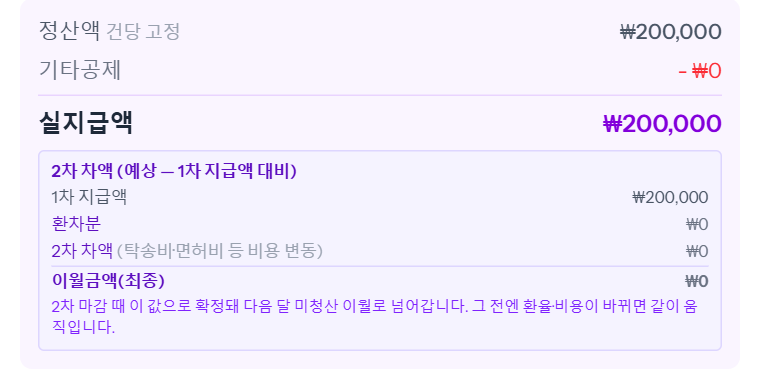
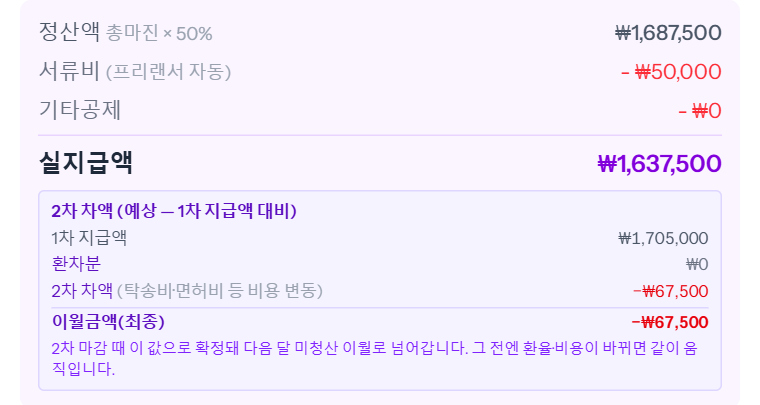
feat(guides): 「2차 정산」 씬을 명세서 일괄 흐름으로 다시 찍음
jin «일괄로 명세서 업로드하는 내용은 왜 없어?» — 실무 주 경로가 명세서 기입 → 이 달 2차 일괄 마감인데
첫 판은 차량 창 한 대 입력만 찍었다(재무 화면에 버튼이 없었음 → 27c3076a 로 재무 이상에 개방).
재무 계정·예시 00가1121·00가1122(프리랜서 50%): 비용 대기 → 명세서 기입(붙여넣기) → 2차 가능·이월 −67,500/−54,000
→ 일괄 마감 창 → 최종 마무리. 한 대씩 고치는 길은 「참고」로 뒤에.

diff --git a/resources/guides/secondary-settlement/index.html b/resources/guides/secondary-settlement/index.html
@@ -1,6 +1,6 @@
 <p style="margin:0 0 14px;color:#4b5563;line-height:1.65">
-    1차 정산을 지급한 뒤, 한 달쯤 지나 명세서로 청구된 실제 비용(탁송비·면허비 등)을 넣고 정산을 마무리하는 단계입니다. 재무가 합니다. 비용을 넣으면 정산 목록의 「2차 정산」 칸이 <strong>「비용 대기」 → 「2차 가능」</strong>으로 바뀌고, [2차 완료]를 누르면 <strong>「최종 마무리」</strong>가 되며 회계 칸이 잠깁니다.
-    <br>2026-11-14 로컬 화면에서 「재무」 계정으로 앞 씬의 예시 차량 <strong>00가1113</strong>(거래완료 · 정산 지급완료 · 사내직원 건당 200,000)을 실제로 저장하며 찍었습니다. 탁송비 금액은 가이드용 예시입니다.
+    1차 정산을 지급한 뒤, 업체 명세서로 청구된 실제 비용(탁송비 등)을 넣고 정산을 마무리하는 단계입니다. 재무가 합니다. 보통은 <strong>명세서를 「명세서 기입」으로 한 번에 올리고 → 「이 달 2차 일괄 마감」</strong>으로 끝냅니다. 비용이 들어간 정산은 「2차 정산」 칸이 <strong>「비용 대기」 → 「2차 가능」</strong>이 되고, 마감하면 <strong>「최종 마무리」</strong>가 되며 회계 칸이 잠깁니다.
+    <br>2026-11-14 로컬 화면에서 「재무」 계정으로 예시 차량 <strong>00가1121 · 00가1122</strong>(판매완료 · 정산 지급완료 · 프리랜서 50%)를 실제로 저장하며 찍었습니다. 명세서 금액은 가이드용 예시입니다.
 </p>
 
 <h2 class="gd-sec">① 지급이 끝난 정산 — 「비용 대기」</h2>
@@ -8,52 +8,68 @@
 <div class="gd-step">
     <div class="gd-n">1단계</div>
     <h3>「정산 처리」에서 2차 정산 칸을 봅니다</h3>
-    <p>지급완료된 정산은 맨 오른쪽 「2차 정산」 칸에 노란 「비용 대기」가 붙습니다. 아직 지급 뒤에 들어온 비용이 없다는 뜻입니다.</p>
-    <img src="01.png" alt="정산 처리 목록 — 00가1113 지급완료, 2차 정산 비용 대기, 위에 이 달 2차 일괄 마감 (1) 버튼">
+    <p>지급완료된 정산은 맨 오른쪽 「2차 정산」 칸에 노란 「비용 대기」가 붙습니다. 지급 뒤에 들어온 비용이 아직 없다는 뜻입니다.</p>
+    <img src="01.png" alt="정산 처리 목록 — 00가1121·00가1122 지급완료, 2차 정산 비용 대기">
 </div>
 
-<h2 class="gd-sec">② 명세서 비용을 차에 넣습니다</h2>
+<h2 class="gd-sec">② 명세서 비용을 한 번에 넣습니다 — 「명세서 기입」</h2>
 
 <div class="gd-step">
     <div class="gd-n">2단계</div>
-    <h3>차량 관리에서 그 차를 열고 「매입」 탭 → 「비용 10개」</h3>
-    <p>지급이 끝난 차라도 2차 대기 동안은 비용 칸 위에 노란 띠 「⏳ 2차 정산 대기 — 실측 정정 가능」이 뜨고 비용을 고칠 수 있습니다. 명세서에 적힌 금액을 해당 칸에 넣습니다(예시는 탁송비 150,000).</p>
-    <img src="02.png" alt="매입 탭 비용 10개 — 2차 정산 대기 실측 정정 가능 띠, 말소비 24,000, 탁송비 150,000">
-    <p>[수정 저장]을 누르면 「차량 정보가 수정됐습니다.」가 뜹니다. 매입가·판매가·환율은 재무 계정으로 바꿀 수 없고, 바꿔도 저장할 때 원래 값으로 돌아갑니다 — 비용 10개만 고칩니다.</p>
+    <h3>차량 관리 목록 아래의 [명세서 기입]을 누릅니다</h3>
+    <img src="02.png" alt="차량 관리 목록 아래 — 데이터 내려받기, 명세서 기입 버튼">
 </div>
 
 <div class="gd-step">
     <div class="gd-n">3단계</div>
-    <h3>정산 처리로 돌아오면 「2차 가능」</h3>
-    <p>지급 뒤에 비용이 실제로 바뀐 정산은 「2차 정산」 칸이 「2차 가능」으로 바뀝니다. 총마진도 바로 다시 계산됩니다(예시 2,858,400 → 2,723,400 — 탁송비 150,000 × 0.9 만큼 줄었습니다).</p>
-    <img src="03.png" alt="정산 처리 목록 — 총마진 2,723,400, 2차 정산 2차 가능">
+    <h3>대상 비용·거래처를 고르고 명세서를 올립니다</h3>
+    <ul>
+        <li><strong>대상 비용</strong> — 이번 명세서의 비용(예시 탁송비).</li>
+        <li><strong>거래처</strong> — 명세서를 보낸 업체(예시 위카).</li>
+        <li>업체 엑셀 파일을 [엑셀 파일 선택]으로 올리면 바로 읽습니다. 또는 엑셀에서 차량번호와 금액이 있는 줄을 복사해 「또는 붙여넣기」 칸에 넣고 [미리보기]를 누릅니다(예시는 붙여넣기). 붙여넣기는 탁송비·위카일 때만 되고, 다른 거래처는 엑셀 파일로 올립니다.</li>
+    </ul>
+    <p>차량번호로 맞춘 차가 「매칭 N대」로 보입니다. 「현재」 금액과 「새 금액」을 확인하고 [일괄 기입]을 누릅니다.</p>
+    <img src="03.png" alt="비용 명세서 일괄 기입 창 — 탁송비·위카, 붙여넣기 00가1121 150,000 · 00가1122 120,000, 매칭 2대">
 </div>
 
 <div class="gd-step">
     <div class="gd-n">4단계</div>
-    <h3>줄을 눌러 정산 내용을 확인합니다</h3>
-    <p>「적용 비용 내역」에 방금 넣은 비용이 들어가 있는지 봅니다(말소비 24,000 + 탁송비 150,000 = 비용 합계 174,000).</p>
-    <img src="04.png" alt="정산 수정 창 — 적용 비용 내역, 말소비 24,000, 탁송비 150,000, 비용 합계 174,000">
-    <p>아래 「2차 차액」 칸이 이번 마감으로 생기는 차이입니다. 예시 차량은 사내직원 건당 정산이라 비용이 늘어도 정산액이 그대로여서 차액이 0원입니다. 비율 정산(프리랜서)이면 비용이 바뀐 만큼 차액이 생기고, 마감할 때 그 금액이 다음 달 정산으로 넘어갑니다(이월).</p>
-    <img src="05.png" alt="2차 차액 — 1차 지급액 200,000, 환차분 0, 2차 차액 0, 이월금액(최종) 0">
+    <h3>정산 처리로 돌아오면 「2차 가능」</h3>
+    <p>지급 뒤에 비용이 실제로 바뀐 정산은 「2차 정산」 칸이 「2차 가능」으로 바뀌고, 옆에 이번 마감으로 넘어갈 금액이 「이월 −67,500」처럼 붙습니다. 총마진·정산액·실지급액도 바로 다시 계산됩니다.</p>
+    <img src="04.png" alt="정산 처리 목록 — 00가1122 2차 가능 이월 −54,000, 00가1121 2차 가능 이월 −67,500">
+    <p>줄을 누르면 「2차 차액」에서 내역을 볼 수 있습니다. 예시 00가1121은 탁송비 150,000이 늘어 총마진이 135,000(× 0.9) 줄었고, 그 50%인 −67,500이 다음 달 정산으로 넘어갑니다.</p>
+    <img src="05.png" alt="정산 수정 창 — 실지급액 1,637,500, 1차 지급액 1,705,000, 2차 차액 −67,500, 이월금액(최종) −67,500">
 </div>
 
-<h2 class="gd-sec">③ 마감 — 「최종 마무리」</h2>
+<h2 class="gd-sec">③ 마감 — 「이 달 2차 일괄 마감」</h2>
 
 <div class="gd-step">
     <div class="gd-n">5단계</div>
-    <h3>그 줄의 [2차 완료]를 누릅니다</h3>
-    <p>「2차 정산을 최종 마무리하시겠습니까? 이후 회계 컬럼 잠금됩니다.」 확인 창이 뜨고, [확인]을 누르면 「2차 정산」 칸이 회색 「최종 마무리」가 됩니다.</p>
-    <img src="06.png" alt="정산 처리 목록 — 00가1113 2차 정산 최종 마무리">
+    <h3>[이 달 2차 일괄 마감 (N)]을 누르고 [N건 마감]</h3>
+    <p>창에 「마감할 정산」 목록이 뜹니다. 「2차 가능」인 정산만 들어갑니다. 확인하고 [2건 마감]을 누릅니다.</p>
+    <img src="06.png" alt="2026-11 2차 정산 완료 일괄 창 — 되돌릴 수 없다는 안내, 마감할 정산 2건 00가1121·00가1122, 2건 마감 버튼">
+    <p>「2차 정산」 칸이 회색 「최종 마무리」가 되고, 이월 금액은 그대로 남아 다음 달 정산에 들어갑니다.</p>
+    <img src="07.png" alt="정산 처리 목록 — 두 차 모두 최종 마무리, 이월 −54,000 · −67,500">
+</div>
+
+<h2 class="gd-sec">한두 대만 고칠 때 — 차량 창에서 직접</h2>
+
+<div class="gd-step">
+    <div class="gd-n">참고</div>
+    <h3>차를 열고 「매입」 탭 → 「비용 10개」에 넣고 [수정 저장]</h3>
+    <p>지급이 끝난 차라도 2차 대기 동안은 비용 칸 위에 「⏳ 2차 정산 대기 — 실측 정정 가능」 띠가 뜨고 비용을 고칠 수 있습니다. 저장하면 정산이 「2차 가능」으로 바뀝니다. 마감은 그 줄의 [2차 완료]로 한 대씩 해도 됩니다(확인 창 「2차 정산을 최종 마무리하시겠습니까? 이후 회계 컬럼 잠금됩니다.」).</p>
+    <img src="08.png" alt="매입 탭 비용 10개 — 2차 정산 대기 실측 정정 가능 띠, 말소비 24,000, 탁송비 150,000">
 </div>
 
 <div class="gd-check">
     <h3>알아 둘 것</h3>
     <ul>
-        <li><strong>[이 달 2차 일괄 마감 (N)]</strong>은 「2차 가능」인 정산만 한 번에 마감합니다. 「비용 대기」인 정산은 쓸려 들어가지 않습니다.</li>
-        <li>지급 뒤 추가 비용이 원래 없는 차는 「비용 대기」 상태 그대로 줄의 [2차 완료]를 눌러 마감합니다.</li>
-        <li>2차 대기 중 비용을 넣을 수 있는 사람은 재무 · 관리 · 업무관리자 · 최고관리자입니다. 영업은 지급이 끝난 차의 금액을 고칠 수 없습니다.</li>
-        <li>여러 대의 비용을 명세서 엑셀로 한 번에 넣는 「명세서 기입」은 관리 이상만 쓸 수 있습니다.</li>
-        <li>마감한 뒤에는 그 차의 회계 칸(매입가·판매가·환율·비용)이 잠깁니다. 마감 뒤에 고칠 일이 생기면 씬 「마감 뒤 회계 재조정」.</li>
+        <li>[이 달 2차 일괄 마감 (N)] 버튼의 숫자는 그달 2차 대기 정산 전체입니다(비용 대기 포함 — 예시는 비용을 넣기 전에도 (2)). 실제로 마감되는 건 창의 「마감할 정산」 목록, 곧 「2차 가능」뿐입니다.</li>
+        <li>지급 뒤 추가 비용이 원래 없는 차는 「비용 대기」 그대로 그 줄의 [2차 완료]로 마감합니다.</li>
+        <li>같은 명세서를 두 번 올려도, 이미 같은 금액인 차는 건드리지 않고 건너뜁니다. 2차 마감이 끝난 차는 명세서 기입이 건드리지 않습니다.</li>
+        <li>보험료는 명세서 기입이 기존 금액에 <strong>더합니다</strong>(다른 비용은 바꿔 씁니다). 같은 보험료 파일을 두 번 올리면 막힙니다.</li>
+        <li>면허비는 차량 관리가 아니라 선적 묶음 화면에서 대수로 나눠(n/1) 넣습니다.</li>
+        <li>명세서 기입과 2차 대기 중 비용 정정은 재무 · 관리 · 업무관리자 · 최고관리자가 할 수 있습니다. 영업은 지급이 끝난 차의 금액을 고칠 수 없습니다.</li>
+        <li>마감한 뒤에는 그 차의 회계 칸이 잠깁니다. 마감 뒤에 고칠 일이 생기면 씬 「마감 뒤 회계 재조정」.</li>
     </ul>
 </div>
